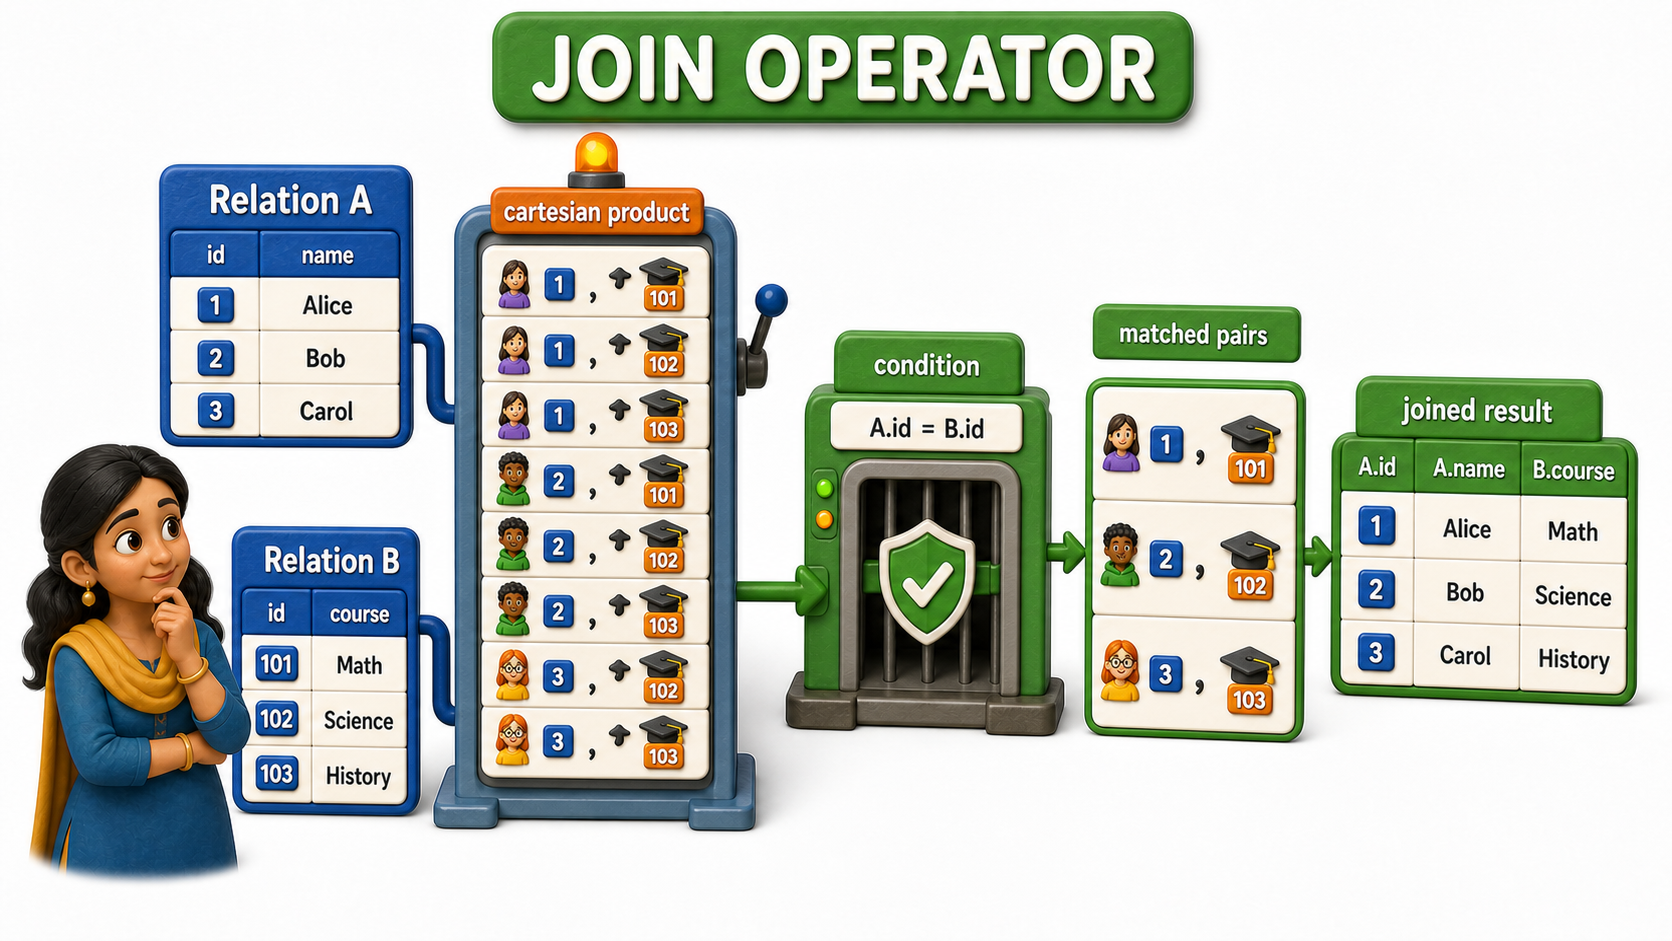
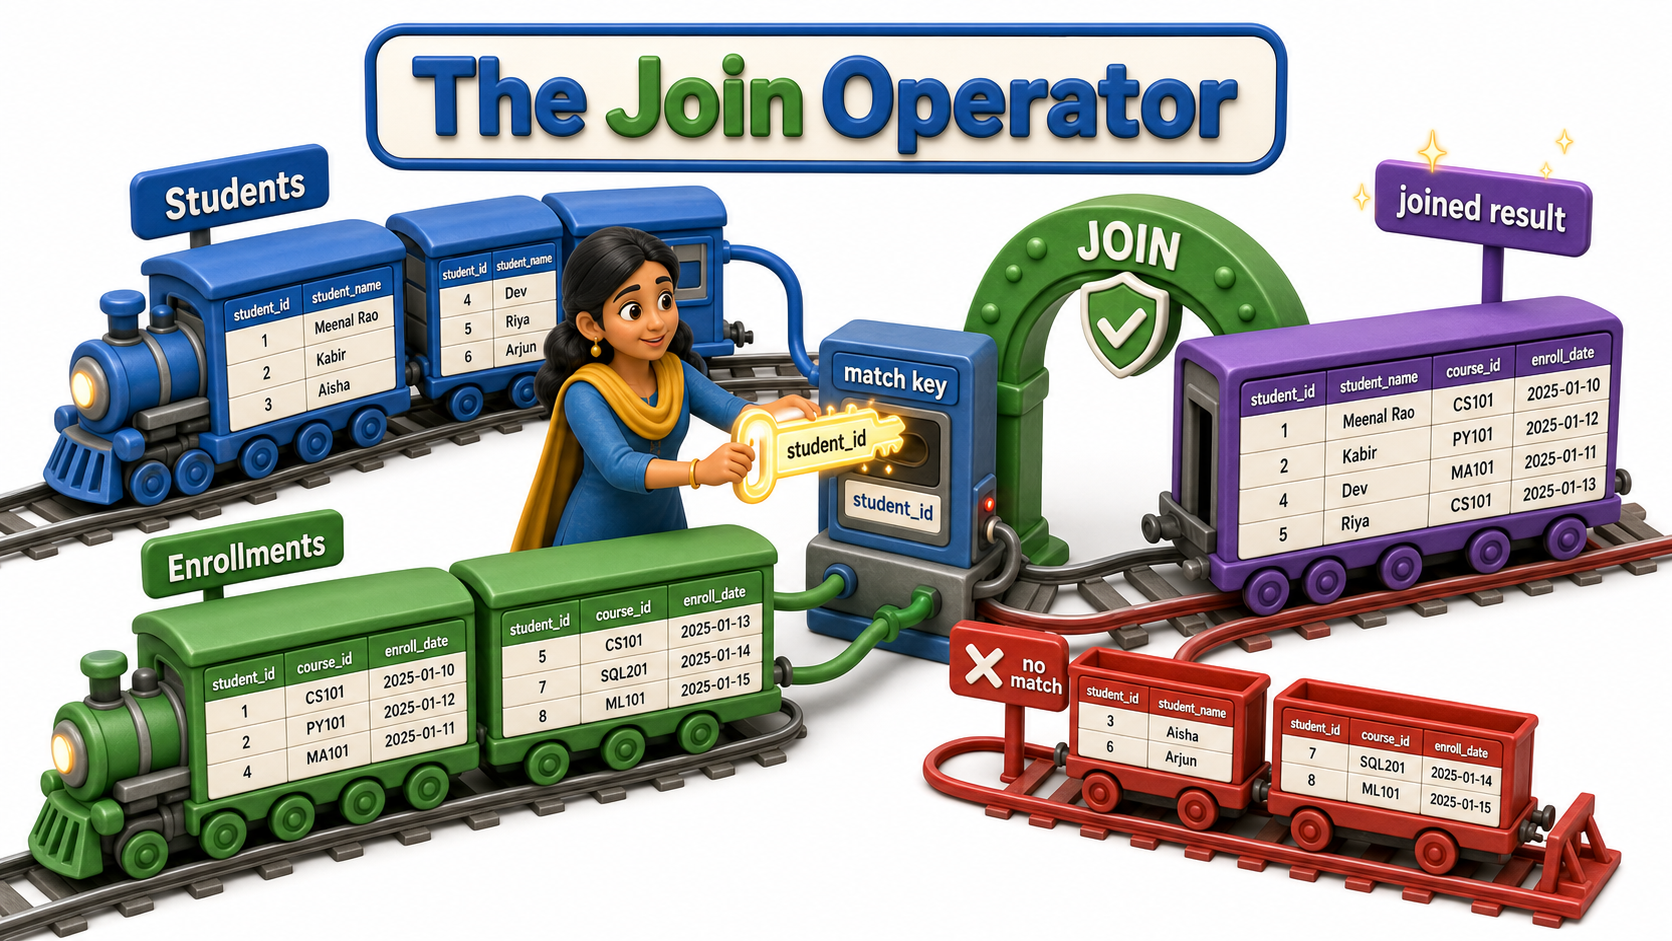
Replace unit 1.4 intro placeholders with actual 3D visuals

diff --git a/content/DBMS_Upload_Chapters/1.4 - Relational Algebra/05_mapping_sql_queries_to_relational_algebra_expressi.md b/content/DBMS_Upload_Chapters/1.4 - Relational Algebra/05_mapping_sql_queries_to_relational_algebra_expressi.md
@@ -10,7 +10,7 @@ The request breaks apart into exactly the same handful of moves he has spent the
 
 **Definition:** Every structured query a person writes against a relational database is, underneath its wording, a short chain of the same handful of operations: selection to narrow rows, projection to narrow columns, join to combine relations on a shared value, and set operations to combine or compare relations of the same shape.
 
-![Intro visual for mapping sql queries to relational algebra expressi](https://s3.ap-south-1.amazonaws.com/static.bytexl.app/uploads/44sjn9mdv/content/images/05_intro_mapping_sql_queries_to_relational_algebra_expres_matched_75b37e24.png)
+![Intro visual for mapping sql queries to relational algebra expressi](https://s3.ap-south-1.amazonaws.com/static.bytexl.app/uploads/44sjn9mdv/content/images/05_intro_mapping_sql_queries_to_relational_algebra_expres_actual3d_3bd553f2.png)
 
 ## Restaurants and Zones: Arjun's Two Relations
 

diff --git a/content/DBMS_Upload_Chapters/1.4 - Relational Algebra/01_what_is_relational_algebra.md b/content/DBMS_Upload_Chapters/1.4 - Relational Algebra/01_what_is_relational_algebra.md
@@ -10,7 +10,7 @@ This formal toolkit, the mathematical foundation beneath every question a relati
 
 **Definition:** `Relational algebra` is the formal, mathematical toolkit underneath every question a relational database answers: a small set of operations, each one taking relations in and producing a relation out, that together give a database a precise language for expressing and comparing ways of finding an answer.
 
-![Intro visual for what is relational algebra](https://s3.ap-south-1.amazonaws.com/static.bytexl.app/uploads/44sjn9mdv/content/images/01_intro_what_is_relational_algebra_matched_01cf92c1.png)
+![Intro visual for what is relational algebra](https://s3.ap-south-1.amazonaws.com/static.bytexl.app/uploads/44sjn9mdv/content/images/01_intro_what_is_relational_algebra_actual3d_970b3829.png)
 
 ## A Relation In, A Relation Out
 

diff --git a/content/DBMS/1 - Database Foundations/1.4 - Relational Algebra/05_mapping_sql_queries_to_relational_algebra_expressi.md b/content/DBMS/1 - Database Foundations/1.4 - Relational Algebra/05_mapping_sql_queries_to_relational_algebra_expressi.md
@@ -24,7 +24,7 @@ ON-IMAGE TEXT: show a short bold title "Mapping SQL Queries To Relational Algebr
 GOAL: make the opening idea instantly clear and engaging while matching the existing DBMS reading-material image standards.
 -->
 
-![Intro visual for mapping sql queries to relational algebra expressi](https://s3.ap-south-1.amazonaws.com/static.bytexl.app/uploads/44sjn9mdv/content/images/05_intro_mapping_sql_queries_to_relational_algebra_expres_matched_75b37e24.png)
+![Intro visual for mapping sql queries to relational algebra expressi](https://s3.ap-south-1.amazonaws.com/static.bytexl.app/uploads/44sjn9mdv/content/images/05_intro_mapping_sql_queries_to_relational_algebra_expres_actual3d_3bd553f2.png)
 
 ## Restaurants and Zones: Arjun's Two Relations
 

diff --git a/content/DBMS_Upload_Chapters/1.4 - Relational Algebra/04_the_join_operator.md b/content/DBMS_Upload_Chapters/1.4 - Relational Algebra/04_the_join_operator.md
@@ -15,7 +15,7 @@ Neither table, alone, can answer the parent's question.
 
 **Definition:** A join takes two relations that each hold part of an answer and combines them into one, by first considering every possible pairing of rows and then keeping only the pairings whose matching condition genuinely holds, most commonly that a shared column agrees between the two sides.
 
-![Intro visual for the join operator](https://s3.ap-south-1.amazonaws.com/static.bytexl.app/uploads/44sjn9mdv/content/images/04_intro_the_join_operator_matched_50e70f3c.png)
+![Intro visual for the join operator](https://s3.ap-south-1.amazonaws.com/static.bytexl.app/uploads/44sjn9mdv/content/images/04_intro_the_join_operator_actual3d_552bb704.png)
 
 ## Farah's Two Relations
 

diff --git a/content/DBMS_Upload_Chapters/1.4 - Relational Algebra/03_set_operations.md b/content/DBMS_Upload_Chapters/1.4 - Relational Algebra/03_set_operations.md
@@ -15,7 +15,7 @@ What Meera is really asking for are three classic comparisons between two relati
 
 **Definition:** Union, intersection, and difference let a database compare two relations the way set theory compares two collections, but only once those relations are union-compatible, meaning they agree on the number of columns and the domain each column draws from.
 
-![Intro visual for set operations](https://s3.ap-south-1.amazonaws.com/static.bytexl.app/uploads/44sjn9mdv/content/images/03_intro_set_operations_matched_2f5af747.png)
+![Intro visual for set operations](https://s3.ap-south-1.amazonaws.com/static.bytexl.app/uploads/44sjn9mdv/content/images/03_intro_set_operations_actual3d_2bbb0d8e.png)
 
 ## The Two Club Relations
 

diff --git a/content/DBMS/1 - Database Foundations/1.4 - Relational Algebra/01_what_is_relational_algebra.md b/content/DBMS/1 - Database Foundations/1.4 - Relational Algebra/01_what_is_relational_algebra.md
@@ -24,7 +24,7 @@ ON-IMAGE TEXT: show a short bold title "What Is Relational Algebra" plus only th
 GOAL: make the opening idea instantly clear and engaging while matching the existing DBMS reading-material image standards.
 -->
 
-![Intro visual for what is relational algebra](https://s3.ap-south-1.amazonaws.com/static.bytexl.app/uploads/44sjn9mdv/content/images/01_intro_what_is_relational_algebra_matched_01cf92c1.png)
+![Intro visual for what is relational algebra](https://s3.ap-south-1.amazonaws.com/static.bytexl.app/uploads/44sjn9mdv/content/images/01_intro_what_is_relational_algebra_actual3d_970b3829.png)
 
 ## A Relation In, A Relation Out
 

diff --git a/content/DBMS_Upload_Chapters/1.4 - Relational Algebra/02_selection.md b/content/DBMS_Upload_Chapters/1.4 - Relational Algebra/02_selection.md
@@ -11,7 +11,7 @@ Both requests sound like they want "a version of the catalogue," but they want c
 
 **Definition:** **Selection** chooses the rows of a relation that satisfy a condition, while **projection** chooses which columns appear in the result.
 
-![Intro visual for selection](https://s3.ap-south-1.amazonaws.com/static.bytexl.app/uploads/44sjn9mdv/content/images/02_intro_selection_matched_da5ec764.png)
+![Intro visual for selection](https://s3.ap-south-1.amazonaws.com/static.bytexl.app/uploads/44sjn9mdv/content/images/02_intro_selection_actual3d_2d33d365.png)
 
 ## The Catalogue Rohan Is Working With
 

diff --git a/content/DBMS/1 - Database Foundations/1.4 - Relational Algebra/04_the_join_operator.md b/content/DBMS/1 - Database Foundations/1.4 - Relational Algebra/04_the_join_operator.md
@@ -29,7 +29,7 @@ ON-IMAGE TEXT: show a short bold title "The Join Operator" plus only these few l
 GOAL: make the opening idea instantly clear and engaging while matching the existing DBMS reading-material image standards.
 -->
 
-![Intro visual for the join operator](https://s3.ap-south-1.amazonaws.com/static.bytexl.app/uploads/44sjn9mdv/content/images/04_intro_the_join_operator_matched_50e70f3c.png)
+![Intro visual for the join operator](https://s3.ap-south-1.amazonaws.com/static.bytexl.app/uploads/44sjn9mdv/content/images/04_intro_the_join_operator_actual3d_552bb704.png)
 
 ## Farah's Two Relations
 

diff --git a/content/DBMS/1 - Database Foundations/1.4 - Relational Algebra/03_set_operations.md b/content/DBMS/1 - Database Foundations/1.4 - Relational Algebra/03_set_operations.md
@@ -29,7 +29,7 @@ ON-IMAGE TEXT: show a short bold title "Set Operations" plus only these few labe
 GOAL: make the opening idea instantly clear and engaging while matching the existing DBMS reading-material image standards.
 -->
 
-![Intro visual for set operations](https://s3.ap-south-1.amazonaws.com/static.bytexl.app/uploads/44sjn9mdv/content/images/03_intro_set_operations_matched_2f5af747.png)
+![Intro visual for set operations](https://s3.ap-south-1.amazonaws.com/static.bytexl.app/uploads/44sjn9mdv/content/images/03_intro_set_operations_actual3d_2bbb0d8e.png)
 
 ## The Two Club Relations
 

diff --git a/content/DBMS/1 - Database Foundations/1.4 - Relational Algebra/02_selection.md b/content/DBMS/1 - Database Foundations/1.4 - Relational Algebra/02_selection.md
@@ -25,7 +25,7 @@ ON-IMAGE TEXT: show a short bold title "Selection" plus only these few labels, l
 GOAL: make the opening idea instantly clear and engaging while matching the existing DBMS reading-material image standards.
 -->
 
-![Intro visual for selection](https://s3.ap-south-1.amazonaws.com/static.bytexl.app/uploads/44sjn9mdv/content/images/02_intro_selection_matched_da5ec764.png)
+![Intro visual for selection](https://s3.ap-south-1.amazonaws.com/static.bytexl.app/uploads/44sjn9mdv/content/images/02_intro_selection_actual3d_2d33d365.png)
 
 ## The Catalogue Rohan Is Working With
 
